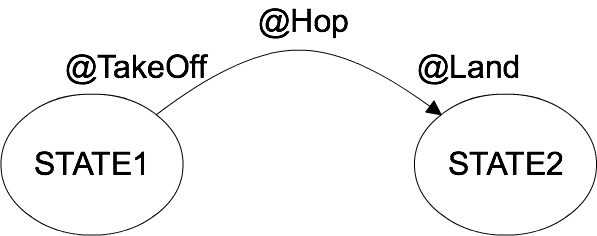
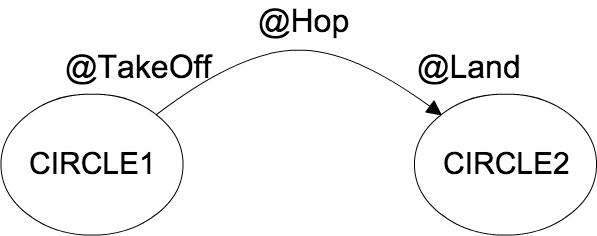
Change the word STATE to CIRCLE for avoid confusion

diff --git a/README.md b/README.md
@@ -47,14 +47,14 @@ Ken-Ken-Pa is a Japanese style of Hop Scotch. The difference between Hop Scotch 
 
 # What does this library do?
 
-When you call a method that has `@Hop(from = "STATE1", to = "STATE2")` annotation, this is an image of execution steps of Ken-Ken-Pa.
+When you call a method that has `@Hop(from = "CIRCLE1", to = "CIRCLE2")` annotation, this is an image of execution steps of Ken-Ken-Pa.
 
 ![execution_image](website/images/execution_image.png)
 
-1. Call `@TakeOff("STATE1")` method if exist
-1. Call the method that has `@Hop(from = "STATE1", to = "STATE2")`
-1. Call `@Land("STATE2")` method if exist
-1. Change the current state to "STATE2"
+1. Call `@TakeOff("CIRCLE1")` method if exist
+1. Call the method that has `@Hop(from = "CIRCLE1", to = "CIRCLE2")`
+1. Call `@Land("CIRCLE2")` method if exist
+1. Change the current state to "CIRCLE2"
 
 # How to use?
 
@@ -63,7 +63,7 @@ There are a few steps to use this library.
 First, add `@KenKenPa` annotation to the abstract class. This abstract class will be a state machine class. `@KenKenPa` annotation needs to have a default state. Currently, states are represented by only String values.
 
 ```java
-@KenKenPa("STATE1")
+@KenKenPa("CIRCLE1")
 public abstract class SimpleFSM {
 }
 ```
@@ -71,7 +71,7 @@ public abstract class SimpleFSM {
 Secondly, create new instance method. The method must return an instance of subclass. The subclass name format is KenKenPa_XXX where XXX is the abstract class name.
 
 ```java
-@KenKenPa("STATE1")
+@KenKenPa("CIRCLE1")
 public abstract class SimpleFSM {
     public static SimpleFSM create() {
         return new KenKenPa_SimpleFSM();
@@ -82,13 +82,13 @@ public abstract class SimpleFSM {
 Thirdly, add `@Hop` to define state changes.
 
 ```java
-@KenKenPa("STATE1")
+@KenKenPa("CIRCLE1")
 public abstract class SimpleFSM {
     public static SimpleFSM create() {
         return new KenKenPa_SimpleFSM();
     }
 
-    @Hop(from = "STATE1", to = "STATE2")
+    @Hop(from = "CIRCLE1", to = "CIRCLE2")
     public void fire() {
       System.out.println("fire!");
     }
@@ -100,7 +100,7 @@ Now, you are set. You can use this class
 
 ```java
 SimpleFSM simpleFSM = SimpleFSM.create();
-simpleFSM.fire(); // => fire! and change current state to STATE2
+simpleFSM.fire(); // => fire! and change current state to CIRCLE2
 ```
 
 ## How to create multiple hops?
@@ -108,14 +108,14 @@ simpleFSM.fire(); // => fire! and change current state to STATE2
 Sadly, there is limitation on Java (less than Java8). You cannot set same annotation on the same method. Instead of using `@Hop`, use `@Hops` which take multiple `@Hop` as parameters.
 
 ```java
-@KenKenPa("STATE1")
+@KenKenPa("CIRCLE1")
 public abstract class SimpleFSM {
     public static SimpleFSM create() {
         return new KenKenPa_SimpleFSM();
     }
 
-    @Hops({@Hop(from = "STATE1", to = "STATE2"),
-            @Hop(from = "STATE2", to = "STATE3")})
+    @Hops({@Hop(from = "CIRCLE1", to = "CIRCLE2"),
+            @Hop(from = "CIRCLE2", to = "CIRCLE3")})
     public void fire() {
       System.out.println("fire!");
     }
@@ -125,7 +125,7 @@ public abstract class SimpleFSM {
 ```java
 SimpleFSM simpleFSM = SimpleFSM.create();
 simpleFSM.fire(); // => fire!
-simpleFSM.fire(); // => fire! and change current state to STATE3
+simpleFSM.fire(); // => fire! and change current state to CIRCLE3
 ```
 
 ## How to get current state?
@@ -133,7 +133,7 @@ simpleFSM.fire(); // => fire! and change current state to STATE3
 To get current state, you can add GetCurrentState interface to the abstract class.
 
 ```java
-@KenKenPa("STATE1")
+@KenKenPa("CIRCLE1")
 public abstract class SimpleFSM implements GetCurrentState
 ```
 
@@ -141,44 +141,44 @@ this interface offers `String getCurrentState()` method.
 
 ```java
 SimpleFSM simpleFSM = SimpleFSM.create();
-simpleFSM.getCurrentState() // => STATE1
+simpleFSM.getCurrentState() // => CIRCLE1
 ```
 
 ## What is `@TakeOff`?
 
-When children hop to another circle, they "take off" the current circle. `@TakeOff` is an annotation that represents "run this method when the current state changed from this state." This annocation is useful when the state require clean up.
+When children hop to another circle, they "take off" the current circle. `@TakeOff` is an annotation that represents "Run this method when the current state changed from this state." This annocation is useful when the state require clean up.
 
 ```java
-@KenKenPa("STATE1")
+@KenKenPa("CIRCLE1")
 public abstract class MainFSM implements GetCurrentState {
     public static MainFSM newInstance() {
         return new KenKenPa_MainFSM();
     }
 
-    @Hop(from = "STATE1", to = "STATE2")
-    public void state1ToState2() {
+    @Hop(from = "CIRCLE1", to = "CIRCLE2")
+    public void circle1ToCircle2() {
     }
 
-    @Hop(from = "STATE1", to = "STATE3")
-    public void state1ToState3() {
+    @Hop(from = "CIRCLE1", to = "CIRCLE3")
+    public void circle1ToCircle3() {
     }
 
-    @Hop(from = "STATE2", to = "STATE1")
-    public void state2ToState1() {
+    @Hop(from = "CIRCLE2", to = "CIRCLE1")
+    public void circle2ToCircle1() {
     }
 
-    @TakeOff("STATE1")
-    void endState1() {
-      System.out.println("Exit from STATE1");
+    @TakeOff("CIRCLE1")
+    void endCircle1() {
+      System.out.println("Exit from CIRCLE1");
     }
 }
 ```
 
 ```java
 SimpleFSM simpleFSM = SimpleFSM.create();
-simpleFSM.state1ToState2(); // => display 'Exit from STATE1'
-simpleFSM.state2ToState1(); // => change current state to STATE1
-simpleFSM.state1ToState3(); // => display 'Exit from STATE1' and change current state to STATE3
+simpleFSM.circle1ToCircle2(); // => display 'Exit from CIRCLE1'
+simpleFSM.circle2ToCircle1(); // => change current state to CIRCLE1
+simpleFSM.circle1ToCircle3(); // => display 'Exit from CIRCLE1' and change current state to CIRCLE3
 ```
 
 Add description for string parameter.
@@ -188,35 +188,35 @@ Add description for string parameter.
 When children hop to another circle, they 'land' the next circle. `@Land` is an annotation that represents "Run this method when the current state became this state." This annotation is useful when the state have the same initialization steps.
 
 ```java
-@KenKenPa("STATE1")
+@KenKenPa("CIRCLE1")
 public abstract class MainFSM implements GetCurrentState {
     public static MainFSM newInstance() {
         return new KenKenPa_MainFSM();
     }
 
-    @Hop(from = "STATE1", to = "STATE2")
-    public void state1ToState2() {
+    @Hop(from = "CIRCLE1", to = "CIRCLE2")
+    public void circle1ToCircle2() {
     }
 
-    @Hop(from = "STATE1", to = "STATE3")
-    public void state1ToState3() {
+    @Hop(from = "CIRCLE1", to = "CIRCLE3")
+    public void circle1ToCircle3() {
     }
 
-    @Hop(from = "STATE2", to = "STATE1")
-    public void state2ToState1() {
+    @Hop(from = "CIRCLE2", to = "CIRCLE1")
+    public void circle2ToCircle1() {
     }
 
-    @Land("STATE2")
-    void startState2() {
-      System.out.println("Now STATE2");
+    @Land("CIRCLE2")
+    void startCircle2() {
+      System.out.println("Now CIRCLE2");
     }
 }
 ```
 
 ```java
 SimpleFSM simpleFSM = SimpleFSM.create();
-simpleFSM.state1ToState2(); // => display 'Now STATE2'
-simpleFSM.state2ToState1(); // => change current state to STATE1
+simpleFSM.circle1ToCircle2(); // => display 'Now CIRCLE2'
+simpleFSM.circle2ToCircle1(); // => change current state to CIRCLE1
 ```
 
 Add description for string parameter.
@@ -226,7 +226,7 @@ Add description for string parameter.
 If the developer create following KenKenPa annotation class
 
 ```java
-@KenKenPa("STATE1")
+@KenKenPa("CIRCLE1")
 public abstract class TestSM implements GetCurrentState {
 
     private String mText;
@@ -239,22 +239,22 @@ public abstract class TestSM implements GetCurrentState {
         return new KenKenPa_TestSM(text);
     }
 
-    @Hops({@Hop(from = "STATE1", to = "STATE2"), @Hop(from = "STATE2", to = "STATE1")})
+    @Hops({@Hop(from = "CIRCLE1", to = "CIRCLE2"), @Hop(from = "CIRCLE2", to = "CIRCLE1")})
     public void fire() {
         System.out.println("Fire!");
     }
 
-    @Hop(from = "STATE1", to = "STATE2")
+    @Hop(from = "CIRCLE1", to = "CIRCLE2")
     public int fire2() {
         return 1;
     }
 
-    @Land("STATE1")
+    @Land("CIRCLE1")
     public void land() {
         System.out.println("land");
     }
 
-    @TakeOff("STATE2")
+    @TakeOff("CIRCLE2")
     public void takeOff() {
         System.out.println("takeoff");
     }
@@ -269,13 +269,13 @@ public final class KenKenPa_TestSM extends TestSM {
 
   KenKenPa_TestSM(String text) {
     super(text);
-    this.mCurrentState = "STATE1";
+    this.mCurrentState = "CIRCLE1";
   }
 
   @Override
   @Hops({
-      @Hop(from = "STATE1", to = "STATE2"),
-      @Hop(from = "STATE2", to = "STATE1")
+      @Hop(from = "CIRCLE1", to = "CIRCLE2"),
+      @Hop(from = "CIRCLE2", to = "CIRCLE1")
   })
   public final void fire() {
     String newState = takeOff$$fire();
@@ -286,8 +286,8 @@ public final class KenKenPa_TestSM extends TestSM {
 
   @Override
   @Hop(
-      from = "STATE1",
-      to = "STATE2"
+      from = "CIRCLE1",
+      to = "CIRCLE2"
   )
   public final int fire2() {
     String newState = takeOff$$fire2();
@@ -304,38 +304,38 @@ public final class KenKenPa_TestSM extends TestSM {
 
   private final String takeOff$$fire() {
     switch(mCurrentState) {
-      case "STATE1":
-      return "STATE2";
-      case "STATE2":
+      case "CIRCLE1":
+      return "CIRCLE2";
+      case "CIRCLE2":
       takeOff();
-      return "STATE1";
+      return "CIRCLE1";
     }
     // No definition! Return the default state
-    return "STATE1";
+    return "CIRCLE1";
   }
 
   private final void land$$fire(String newState) {
     switch(newState) {
-      case "STATE1":
+      case "CIRCLE1":
       land();
       break;
-      case "STATE2":
+      case "CIRCLE2":
       break;
     }
   }
 
   private final String takeOff$$fire2() {
     switch(mCurrentState) {
-      case "STATE1":
-      return "STATE2";
+      case "CIRCLE1":
+      return "CIRCLE2";
     }
     // No definition! Return the default state
-    return "STATE1";
+    return "CIRCLE1";
   }
 
   private final void land$$fire2(String newState) {
     switch(newState) {
-      case "STATE1":
+      case "CIRCLE1":
       land();
       break;
     }
